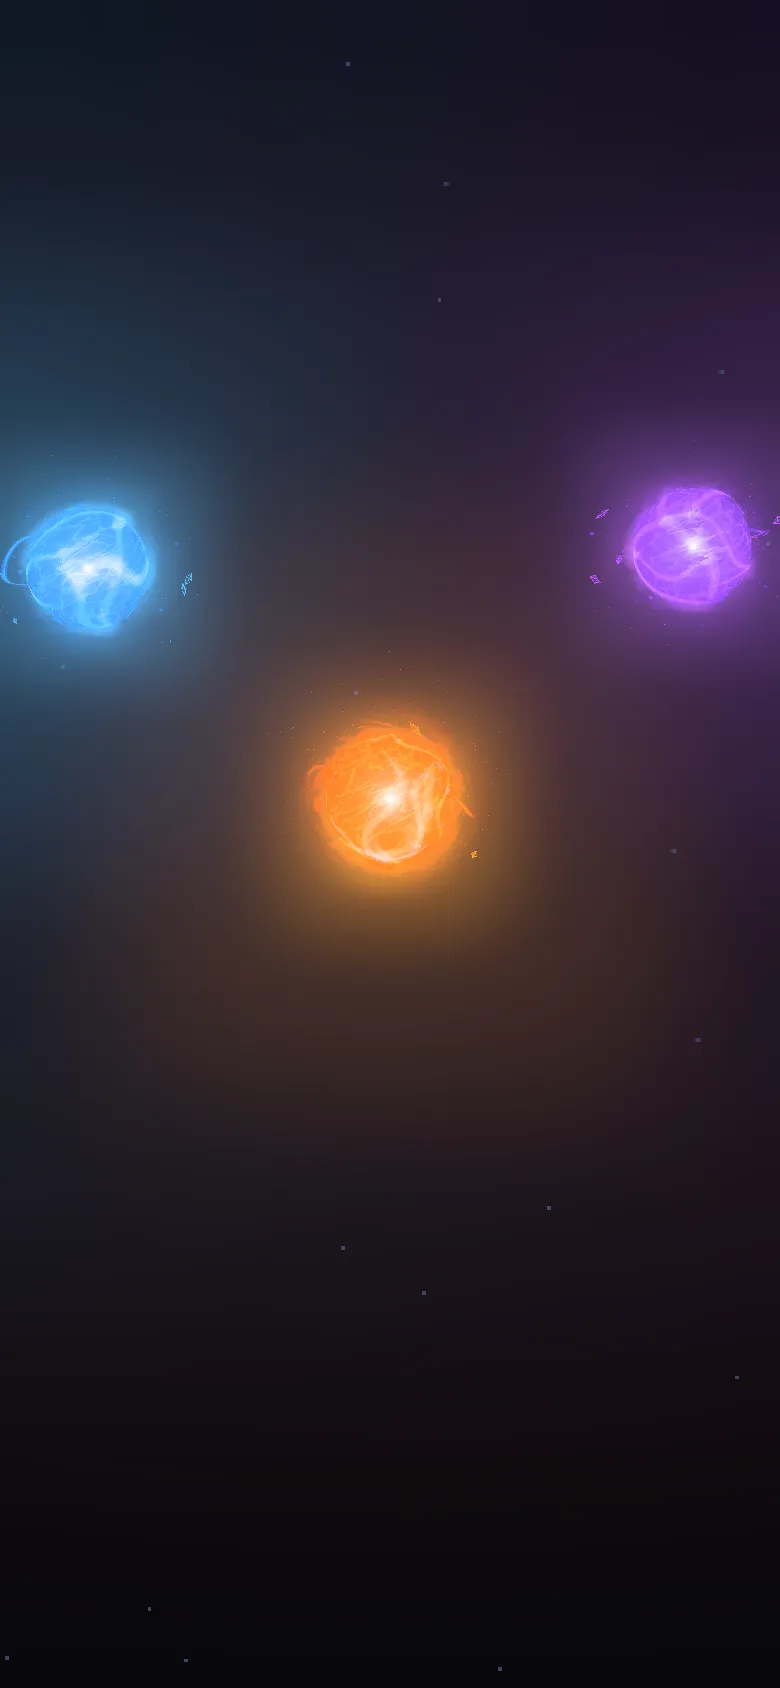
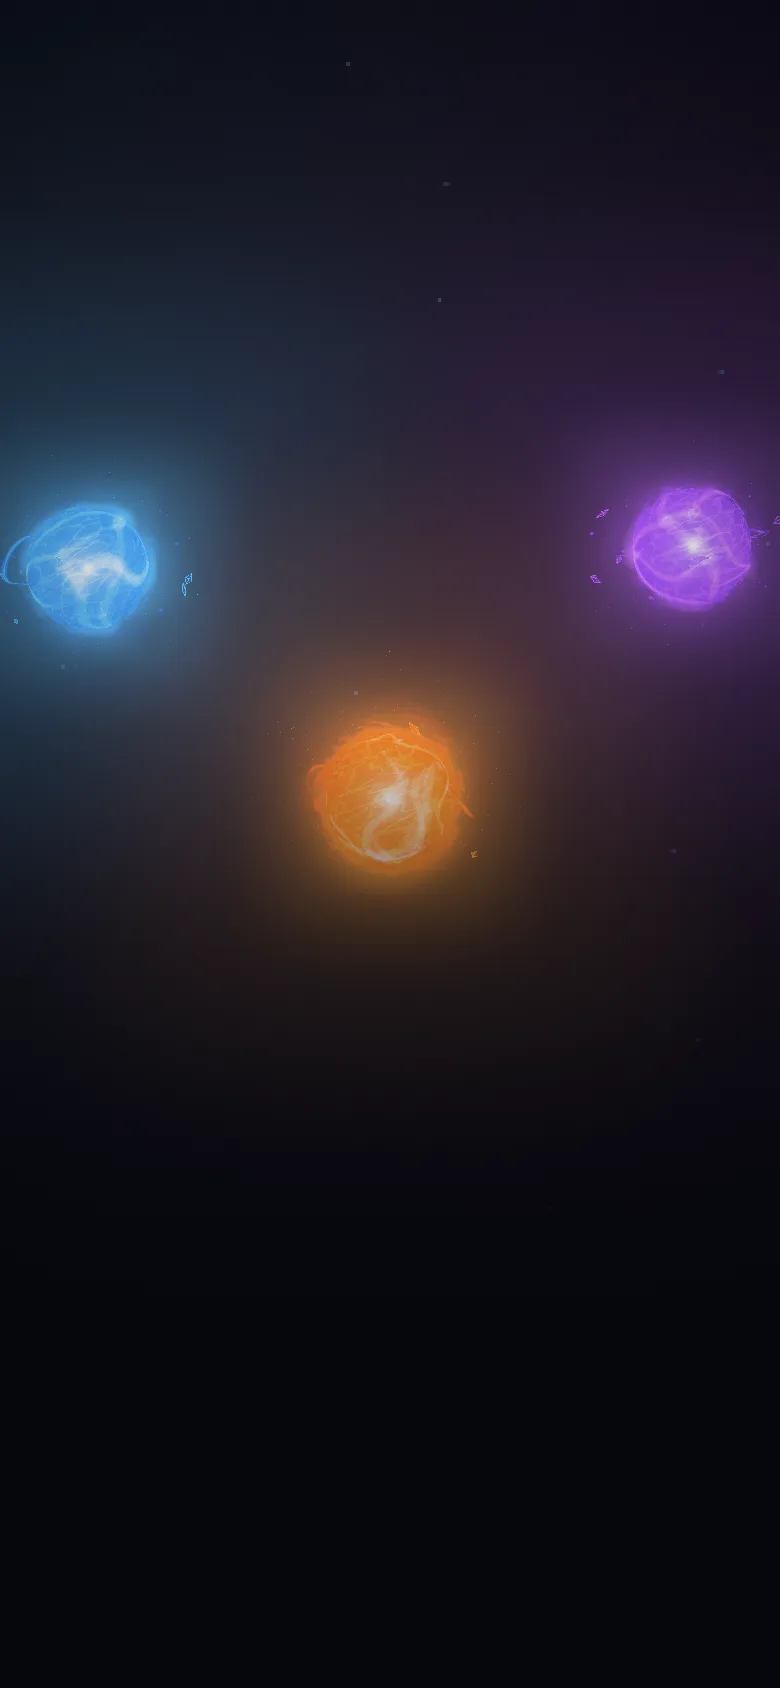
Phone story beats: full-bleed stills with a vignette, no side bars

diff --git a/index.html b/index.html
@@ -21,7 +21,7 @@ var T='https://cdn.jsdelivr.net/npm/three@0.164.1/',M='models/invoker/';
 ['m@build/three.module.min.js','m@examples/jsm/loaders/GLTFLoader.js','m@examples/jsm/utils/BufferGeometryUtils.js','m@examples/jsm/environments/RoomEnvironment.js','m@examples/jsm/postprocessing/EffectComposer.js','m@examples/jsm/postprocessing/RenderPass.js','m@examples/jsm/postprocessing/SavePass.js','m@examples/jsm/postprocessing/UnrealBloomPass.js','m@examples/jsm/postprocessing/OutputPass.js','m@examples/jsm/postprocessing/ShaderPass.js','m@examples/jsm/postprocessing/Pass.js','m@examples/jsm/postprocessing/MaskPass.js','m@examples/jsm/shaders/CopyShader.js','m@examples/jsm/shaders/LuminosityHighPassShader.js','m@examples/jsm/shaders/OutputShader.js','f#scene.gltf','f#scene.bin','f#textures/blinn3_baseColor.webp','f#textures/blinn4_baseColor.webp','f#textures/blinn5_baseColor.webp','f#textures/blinn6_baseColor.webp','f#textures/blinn7_baseColor.webp','f#textures/blinn8_baseColor.webp','f#textures/blinn9_baseColor.webp','mjs/scene.js','mjs/shared.js','mjs/post.js','mjs/orbs.js','mjs/cast.js','mjs/book.js'].forEach(function(u){
 var l=document.createElement('link');l.rel=u[0]==='m'?'modulepreload':'preload';if(u[0]==='f')l.as='fetch';
 u=u.slice(1);if(u[0]==='@')u=T+u.slice(1);else if(u[0]==='#')u=M+u.slice(1);l.href=u;if(!/^js\//.test(u))l.crossOrigin='anonymous';document.head.appendChild(l);});})();</script>
-<link rel="stylesheet" href="css/site.css?v=mu6y21lp">
+<link rel="stylesheet" href="css/site.css?v=mu6yuwhn">
 <!-- phones and tablets get the lite site: pre-rendered stills instead of live 3D (?force3d overrides) -->
 <script>try{var q=location.search;if(!/force3d|capture/.test(q)&&(matchMedia('(max-width: 760px)').matches||matchMedia('(pointer: coarse)').matches&&Math.min(screen.width,screen.height)<=1024))document.documentElement.classList.add('lite')}catch(e){}</script>
 <!-- the intro loader plays when the site is opened or refreshed, not when moving between its pages -->
@@ -349,7 +349,7 @@ u=u.slice(1);if(u[0]==='@')u=T+u.slice(1);else if(u[0]==='#')u=M+u.slice(1);l.hr
 
 <script src="https://cdnjs.cloudflare.com/ajax/libs/gsap/3.12.5/gsap.min.js"></script>
 <script src="https://cdnjs.cloudflare.com/ajax/libs/gsap/3.12.5/ScrollTrigger.min.js"></script>
-<script type="module" src="js/site.js?v=mu6y21lp"></script>
+<script type="module" src="js/site.js?v=mu6yuwhn"></script>
 <script type="module">
 const reduced = matchMedia('(prefers-reduced-motion: reduce)').matches;
 // ?capture (dev): full desktop quality at any size, for rendering the phone stills

diff --git a/account.html b/account.html
@@ -8,7 +8,7 @@
 <link rel="preconnect" href="https://fonts.googleapis.com">
 <link rel="preconnect" href="https://fonts.gstatic.com" crossorigin>
 <link rel="stylesheet" href="https://fonts.googleapis.com/css2?family=Cinzel:wght@500;600;700&family=Chakra+Petch:wght@400;500;600&family=Barlow:wght@400;500&display=swap">
-<link rel="stylesheet" href="css/site.css?v=mu6y21lp">
+<link rel="stylesheet" href="css/site.css?v=mu6yuwhn">
 <!-- phones and tablets get the lite site: pre-rendered stills instead of live 3D (?force3d overrides) -->
 <script>try{var q=location.search;if(!/force3d|capture/.test(q)&&(matchMedia('(max-width: 760px)').matches||matchMedia('(pointer: coarse)').matches&&Math.min(screen.width,screen.height)<=1024))document.documentElement.classList.add('lite')}catch(e){}</script>
 <!-- the intro loader plays when the site is opened or refreshed, not when moving between its pages -->
@@ -121,5 +121,5 @@
 
 <script src="https://cdnjs.cloudflare.com/ajax/libs/gsap/3.12.5/gsap.min.js"></script>
 <script src="https://cdnjs.cloudflare.com/ajax/libs/gsap/3.12.5/ScrollTrigger.min.js"></script>
-<script type="module" src="js/site.js?v=mu6y21lp"></script>
-<script type="module" src="js/account.js?v=mu6y21lp"></script>
+<script type="module" src="js/site.js?v=mu6yuwhn"></script>
+<script type="module" src="js/account.js?v=mu6yuwhn"></script>

diff --git a/css/site.css b/css/site.css
@@ -760,12 +760,7 @@ h1, h2 { font-family: var(--display); font-weight: 600; letter-spacing: 0.02em; 
   will-change: opacity, transform; animation: still-drift 9s ease-in-out infinite alternate; }
 .lite .stills img:first-child { opacity: 1; }
 @keyframes still-drift { from { transform: scale(1); } to { transform: scale(1.035) translateY(-6px); } }
-/* the beats: the orb sits smaller and higher, and the still's lower edge fades into the page so the copy reads on clean dark */
-.lite .stills img:not(:first-child) { transform-origin: 50% 8%; animation-name: still-beat;
-  /* an oval of light rather than a full-bleed frame: the orb glows high on the screen and the haze falls away to the page's own dark */
-  -webkit-mask-image: radial-gradient(118% 58% at 50% 26%, #000 34%, rgba(0, 0, 0, .5) 66%, transparent 88%);
-  mask-image: radial-gradient(118% 58% at 50% 26%, #000 34%, rgba(0, 0, 0, .5) 66%, transparent 88%); }
-@keyframes still-beat { from { transform: scale(.82); } to { transform: scale(.86) translateY(-8px); } }
+/* the beat stills already carry their framing (a smaller orb, feathered onto the page's dark), so they fill the screen as they are */
 .lite .stage canvas, .lite .step-hero .video-toggle, .lite .calc-book { display: none; }
 @media (prefers-reduced-motion: reduce) {
   .orb-still, .lite .stills img { animation: none; }

diff --git a/login.html b/login.html
@@ -8,7 +8,7 @@
 <link rel="preconnect" href="https://fonts.googleapis.com">
 <link rel="preconnect" href="https://fonts.gstatic.com" crossorigin>
 <link rel="stylesheet" href="https://fonts.googleapis.com/css2?family=Cinzel:wght@500;600;700&family=Chakra+Petch:wght@400;500;600&family=Barlow:wght@400;500&display=swap">
-<link rel="stylesheet" href="css/site.css?v=mu6y21lp">
+<link rel="stylesheet" href="css/site.css?v=mu6yuwhn">
 <!-- phones and tablets get the lite site: pre-rendered stills instead of live 3D (?force3d overrides) -->
 <script>try{var q=location.search;if(!/force3d|capture/.test(q)&&(matchMedia('(max-width: 760px)').matches||matchMedia('(pointer: coarse)').matches&&Math.min(screen.width,screen.height)<=1024))document.documentElement.classList.add('lite')}catch(e){}</script>
 <!-- the intro loader plays when the site is opened or refreshed, not when moving between its pages -->
@@ -94,5 +94,5 @@
 
 <script src="https://cdnjs.cloudflare.com/ajax/libs/gsap/3.12.5/gsap.min.js"></script>
 <script src="https://cdnjs.cloudflare.com/ajax/libs/gsap/3.12.5/ScrollTrigger.min.js"></script>
-<script type="module" src="js/site.js?v=mu6y21lp"></script>
-<script type="module" src="js/login.js?v=mu6y21lp"></script>
+<script type="module" src="js/site.js?v=mu6yuwhn"></script>
+<script type="module" src="js/login.js?v=mu6yuwhn"></script>

diff --git a/coaching.html b/coaching.html
@@ -13,7 +13,7 @@
   "three/addons/": "https://cdn.jsdelivr.net/npm/three@0.164.1/examples/jsm/"
 } }
 </script>
-<link rel="stylesheet" href="css/site.css?v=mu6y21lp">
+<link rel="stylesheet" href="css/site.css?v=mu6yuwhn">
 <!-- phones and tablets get the lite site: pre-rendered stills instead of live 3D (?force3d overrides) -->
 <script>try{var q=location.search;if(!/force3d|capture/.test(q)&&(matchMedia('(max-width: 760px)').matches||matchMedia('(pointer: coarse)').matches&&Math.min(screen.width,screen.height)<=1024))document.documentElement.classList.add('lite')}catch(e){}</script>
 <!-- the intro loader plays when the site is opened or refreshed, not when moving between its pages -->
@@ -358,5 +358,5 @@
 
 <script src="https://cdnjs.cloudflare.com/ajax/libs/gsap/3.12.5/gsap.min.js"></script>
 <script src="https://cdnjs.cloudflare.com/ajax/libs/gsap/3.12.5/ScrollTrigger.min.js"></script>
-<script type="module" src="js/site.js?v=mu6y21lp"></script>
-<script type="module" src="js/order.js?v=mu6y21lp"></script>
+<script type="module" src="js/site.js?v=mu6yuwhn"></script>
+<script type="module" src="js/order.js?v=mu6yuwhn"></script>

diff --git a/mmr-boost.html b/mmr-boost.html
@@ -13,7 +13,7 @@
   "three/addons/": "https://cdn.jsdelivr.net/npm/three@0.164.1/examples/jsm/"
 } }
 </script>
-<link rel="stylesheet" href="css/site.css?v=mu6y21lp">
+<link rel="stylesheet" href="css/site.css?v=mu6yuwhn">
 <!-- phones and tablets get the lite site: pre-rendered stills instead of live 3D (?force3d overrides) -->
 <script>try{var q=location.search;if(!/force3d|capture/.test(q)&&(matchMedia('(max-width: 760px)').matches||matchMedia('(pointer: coarse)').matches&&Math.min(screen.width,screen.height)<=1024))document.documentElement.classList.add('lite')}catch(e){}</script>
 <!-- the intro loader plays when the site is opened or refreshed, not when moving between its pages -->
@@ -433,5 +433,5 @@
 
 <script src="https://cdnjs.cloudflare.com/ajax/libs/gsap/3.12.5/gsap.min.js"></script>
 <script src="https://cdnjs.cloudflare.com/ajax/libs/gsap/3.12.5/ScrollTrigger.min.js"></script>
-<script type="module" src="js/site.js?v=mu6y21lp"></script>
-<script type="module" src="js/boost.js?v=mu6y21lp"></script>
+<script type="module" src="js/site.js?v=mu6yuwhn"></script>
+<script type="module" src="js/boost.js?v=mu6yuwhn"></script>

diff --git a/replay-analysis.html b/replay-analysis.html
@@ -13,7 +13,7 @@
   "three/addons/": "https://cdn.jsdelivr.net/npm/three@0.164.1/examples/jsm/"
 } }
 </script>
-<link rel="stylesheet" href="css/site.css?v=mu6y21lp">
+<link rel="stylesheet" href="css/site.css?v=mu6yuwhn">
 <!-- phones and tablets get the lite site: pre-rendered stills instead of live 3D (?force3d overrides) -->
 <script>try{var q=location.search;if(!/force3d|capture/.test(q)&&(matchMedia('(max-width: 760px)').matches||matchMedia('(pointer: coarse)').matches&&Math.min(screen.width,screen.height)<=1024))document.documentElement.classList.add('lite')}catch(e){}</script>
 <!-- the intro loader plays when the site is opened or refreshed, not when moving between its pages -->
@@ -357,5 +357,5 @@
 
 <script src="https://cdnjs.cloudflare.com/ajax/libs/gsap/3.12.5/gsap.min.js"></script>
 <script src="https://cdnjs.cloudflare.com/ajax/libs/gsap/3.12.5/ScrollTrigger.min.js"></script>
-<script type="module" src="js/site.js?v=mu6y21lp"></script>
-<script type="module" src="js/order.js?v=mu6y21lp"></script>
+<script type="module" src="js/site.js?v=mu6yuwhn"></script>
+<script type="module" src="js/order.js?v=mu6yuwhn"></script>
